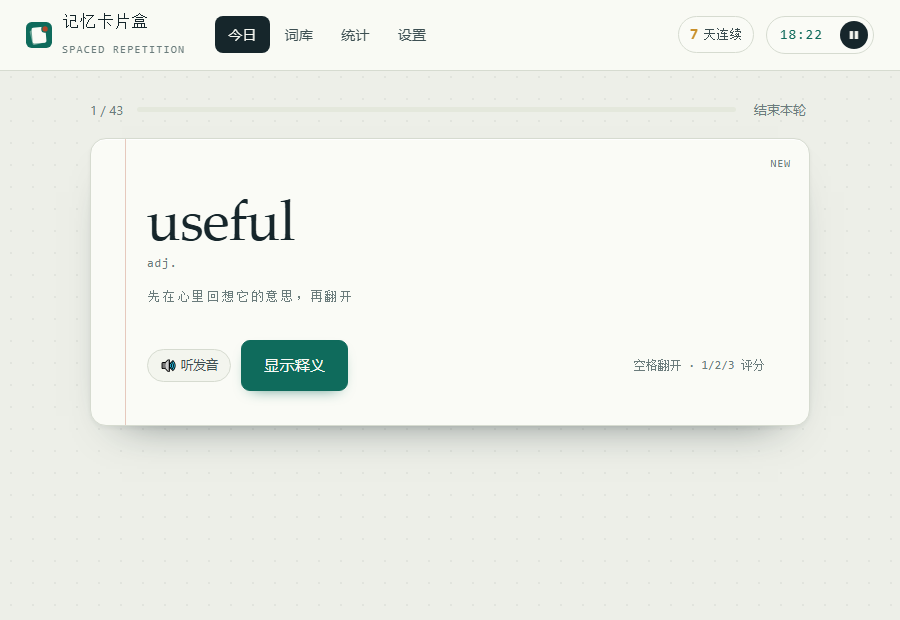
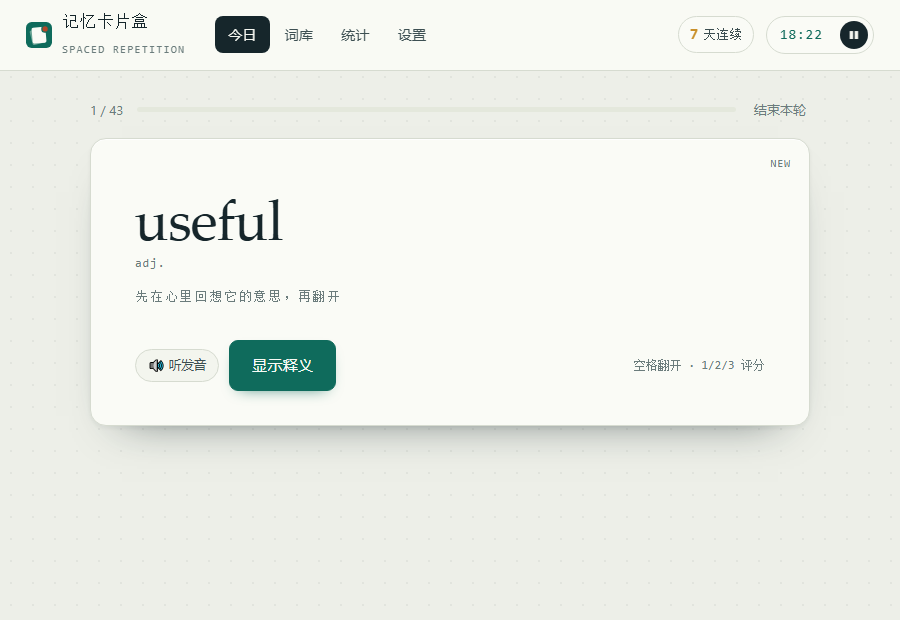
学习卡去掉左侧页边线，左右内边距拉平

Changed region(s): [[0.1556, 0.3065, 0.3422, 0.429], [0.1556, 0.5516, 0.4044, 0.6435], [0.1556, 0.4597, 0.3733, 0.4903]]

diff --git a/web/style.css b/web/style.css
@@ -842,19 +842,10 @@ textarea {
   border-radius: 16px;
   box-shadow: inset 0 1px 0 #fff, 0 2px 4px rgba(22, 38, 43, 0.05),
     0 22px 44px -32px rgba(22, 38, 43, 0.7);
-  padding: 40px 44px 34px 56px;
+  padding: 40px 44px 34px 44px;
   min-height: 288px;
   display: flex;
   flex-direction: column;
-}
-.flashcard::before {
-  content: "";
-  position: absolute;
-  left: 34px;
-  top: 0;
-  bottom: 0;
-  width: 1px;
-  background: rgba(180, 71, 42, 0.28);
 }
 .fc-tab {
   position: absolute;
@@ -1514,12 +1505,9 @@ button,
     gap: 10px;
   }
   .flashcard {
-    padding: 30px 18px 20px 30px;
+    padding: 30px 18px 20px 18px;
     min-height: 320px;
     border-radius: 14px;
-  }
-  .flashcard::before {
-    left: 18px;
   }
   .fc-tab {
     top: 12px;
